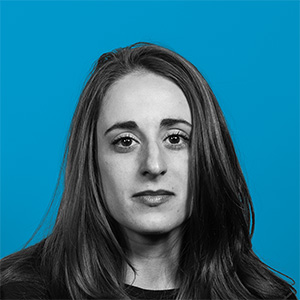
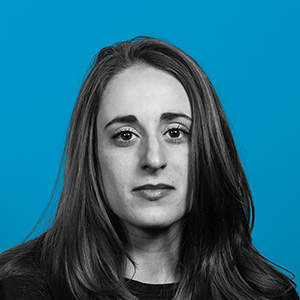
Katrina images. Amanda image update.

Changed region(s): [[0.0, 0.12, 1.0, 1.0]]

diff --git a/index.html b/index.html
@@ -194,23 +194,23 @@
 				
 					<div id="katrina" class="student" data-name="Katrina Keane" data-project="Project Name">
 						<figure>
-							<img src="img/avatar_generic.jpg" />
+							<img src="img/avatar_katrina.jpg" />
 							<figcaption>Katrina Keane</figcaption>
 						</figure>
 						<div class="studentInfoOverlay">
 							<div class="close">[x]</div>
 							<div class="studentInfo">
-								<img class="studentAvatar" src="img/avatar_generic.jpg" />
+								<img class="studentAvatar" src="img/avatar_katrina.jpg" />
 								<h1 class="studentName">Katrina Keane</h1>
 								<div class="studentMeta">
-									<a href="#" target="_blank">Portfolio</a>&nbsp;&nbsp;&bull;&nbsp;&nbsp;
+									<a href="http://katrinakeane.com" target="_blank">Portfolio</a>&nbsp;&nbsp;&bull;&nbsp;&nbsp;
 									<a href="#" target="_blank">Thesis Website</a>&nbsp;&nbsp;&bull;&nbsp;&nbsp;
 									<a href="#" target="_blank">Book</a>
 								</div>
 								<h2 class="projectName">Project Name</h2>
 								<div class="projectDescription">
 									<p>
-										Lorem ipsum dolor sit amet, consectetur adipiscing elit. Vestibulum lectus urna, gravida a nunc volutpat, elementum molestie velit. Curabitur eu elementum sem. Vivamus eu gravida sem. Nulla iaculis mi nec enim lacinia, ut convallis nunc pulvinar. Integer ornare elementum nisl at placerat. Duis ex lectus, fringilla a felis eget, euismod tristique tellus.
+										Three case studies in Uganda use design to augment the experience, enable access, and gracefully reflect the core values and mission of each entity.
 									</p>
 								</div>
 							</div>

diff --git a/css/main.css b/css/main.css
@@ -341,7 +341,7 @@ nav#historicNav a:active {
 	***
 */
 
-#amanda a:link, #amanda a:visited { color: #0099cc; }
+#amanda a:link, #amanda a:visited { color: #ed135a; }
 #amanda a:hover, #amanda a:active { color: #222; }
 
 #michael a:link, #michael a:visited { color: #0ba2ce; }
@@ -356,7 +356,7 @@ nav#historicNav a:active {
 #alex a:link, #alex a:visited { color: #35c9d0; }
 #alex a:hover, #alex a:active { color: #222; }
 
-#katrina a:link, #katrina a:visited { color: #f67fc5; } /* */
+#katrina a:link, #katrina a:visited { color: #FF0000; } /* */
 #katrina a:hover, #katrina a:active { color: #222; }
 
 #daniel a:link, #daniel a:visited { color: #4FF1B8; }
